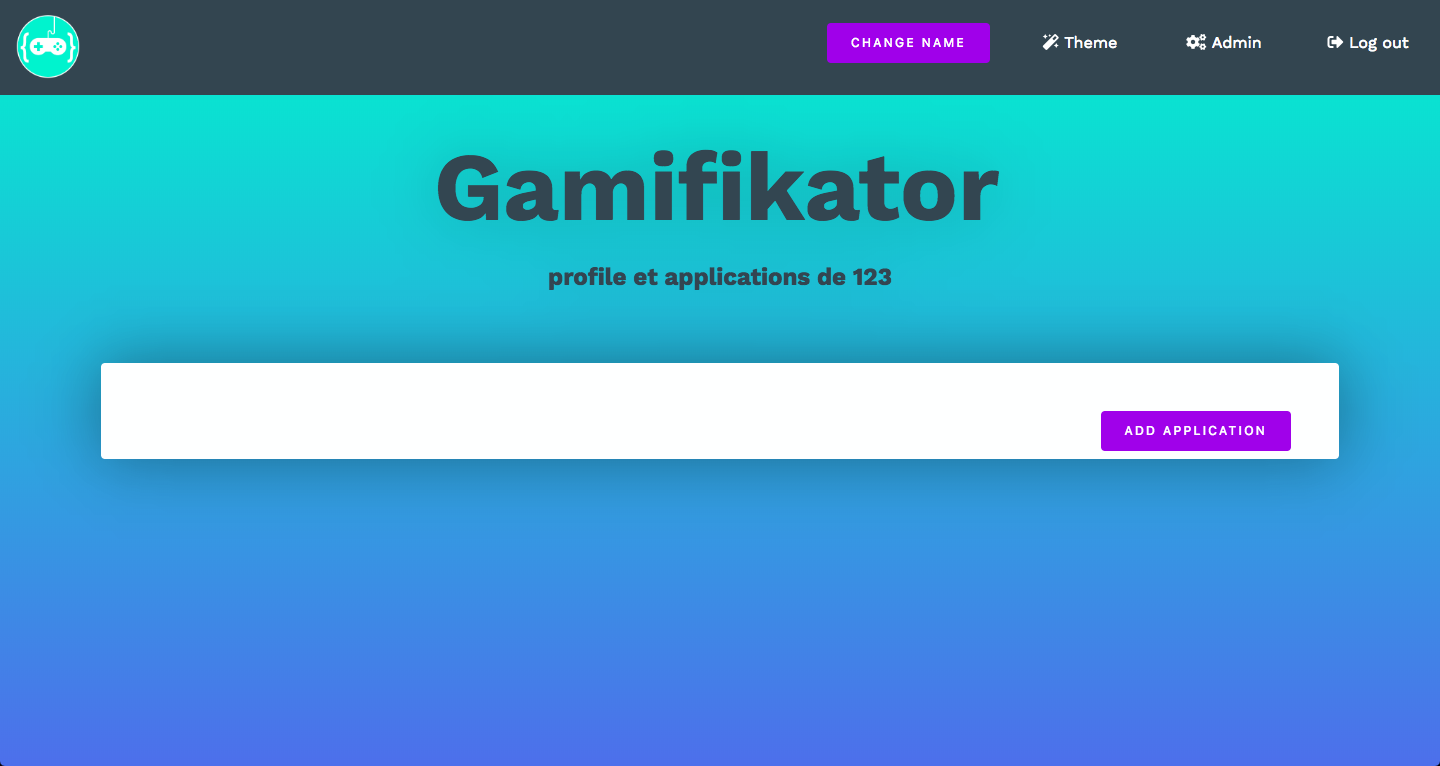
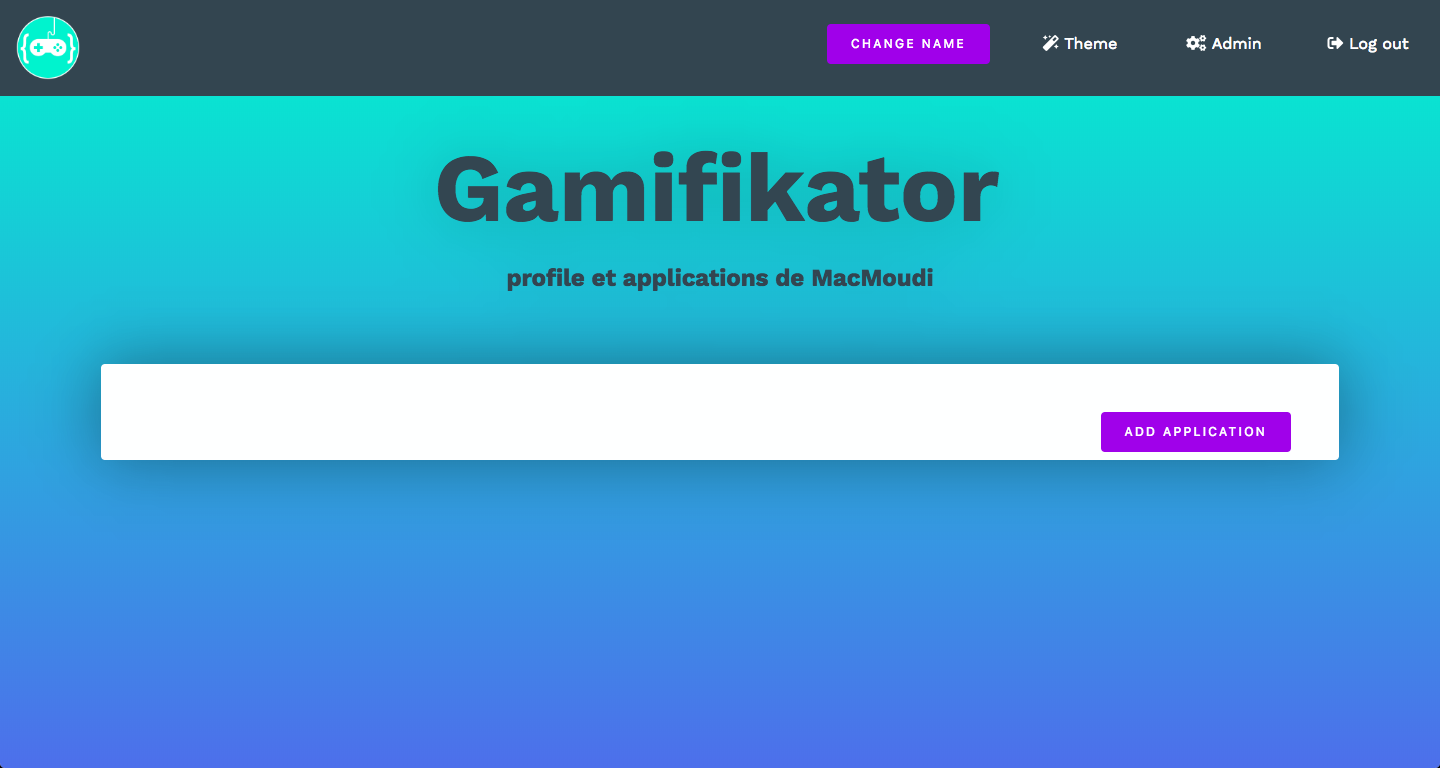
transaction tests

diff --git a/doc/TESTING_NON_FUNCTIONAL_TRANSACTIONS.md b/doc/TESTING_NON_FUNCTIONAL_TRANSACTIONS.md
@@ -48,7 +48,9 @@ On a donc provoqué une erreur après l'inscription dans la base de donnée de n
 2. On peut voir notre nom actuel 
 	![alt text](trans_1.png)
 3. Modification effectuée
-
+	![alt text](trans_2.png)
+4. On revient sur home et la valeur n'a pas été modifiée. Le rollback fonctionne donc (le nouveau nom est temporairement affiché, un reload recharge la valeur depuis la BD).
+	![alt text](trans_3.png)
 
 	
 
